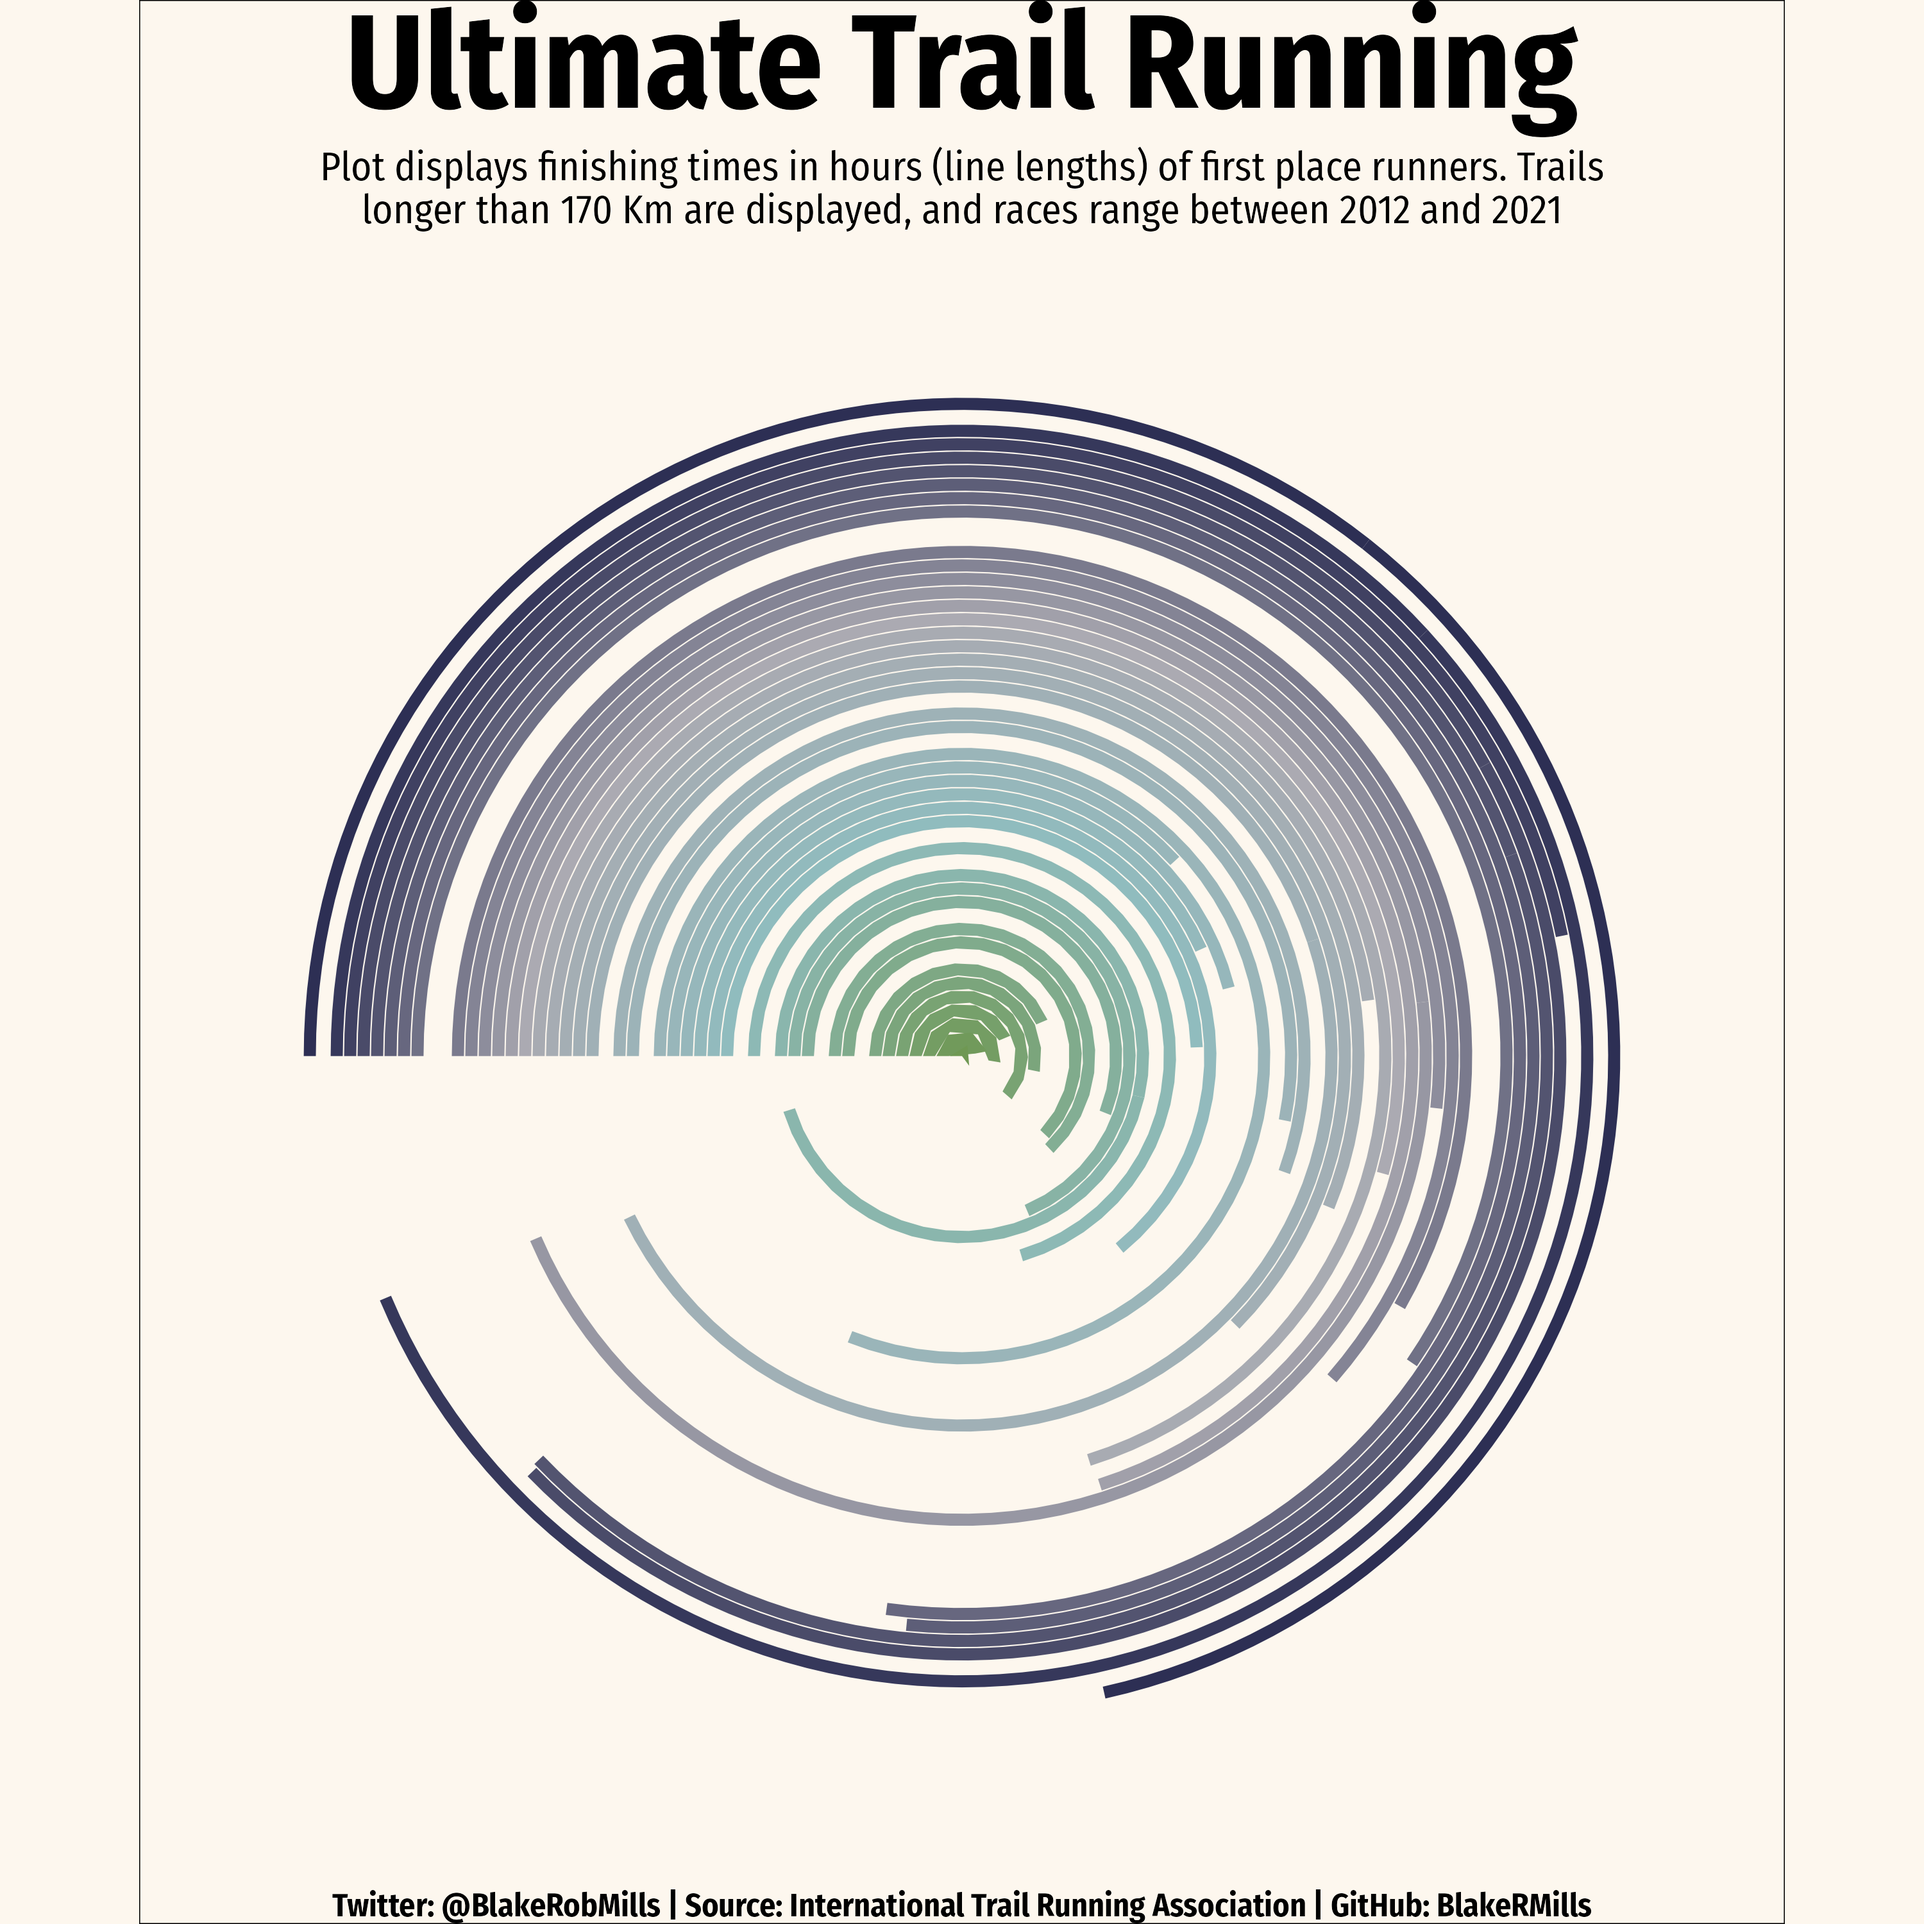
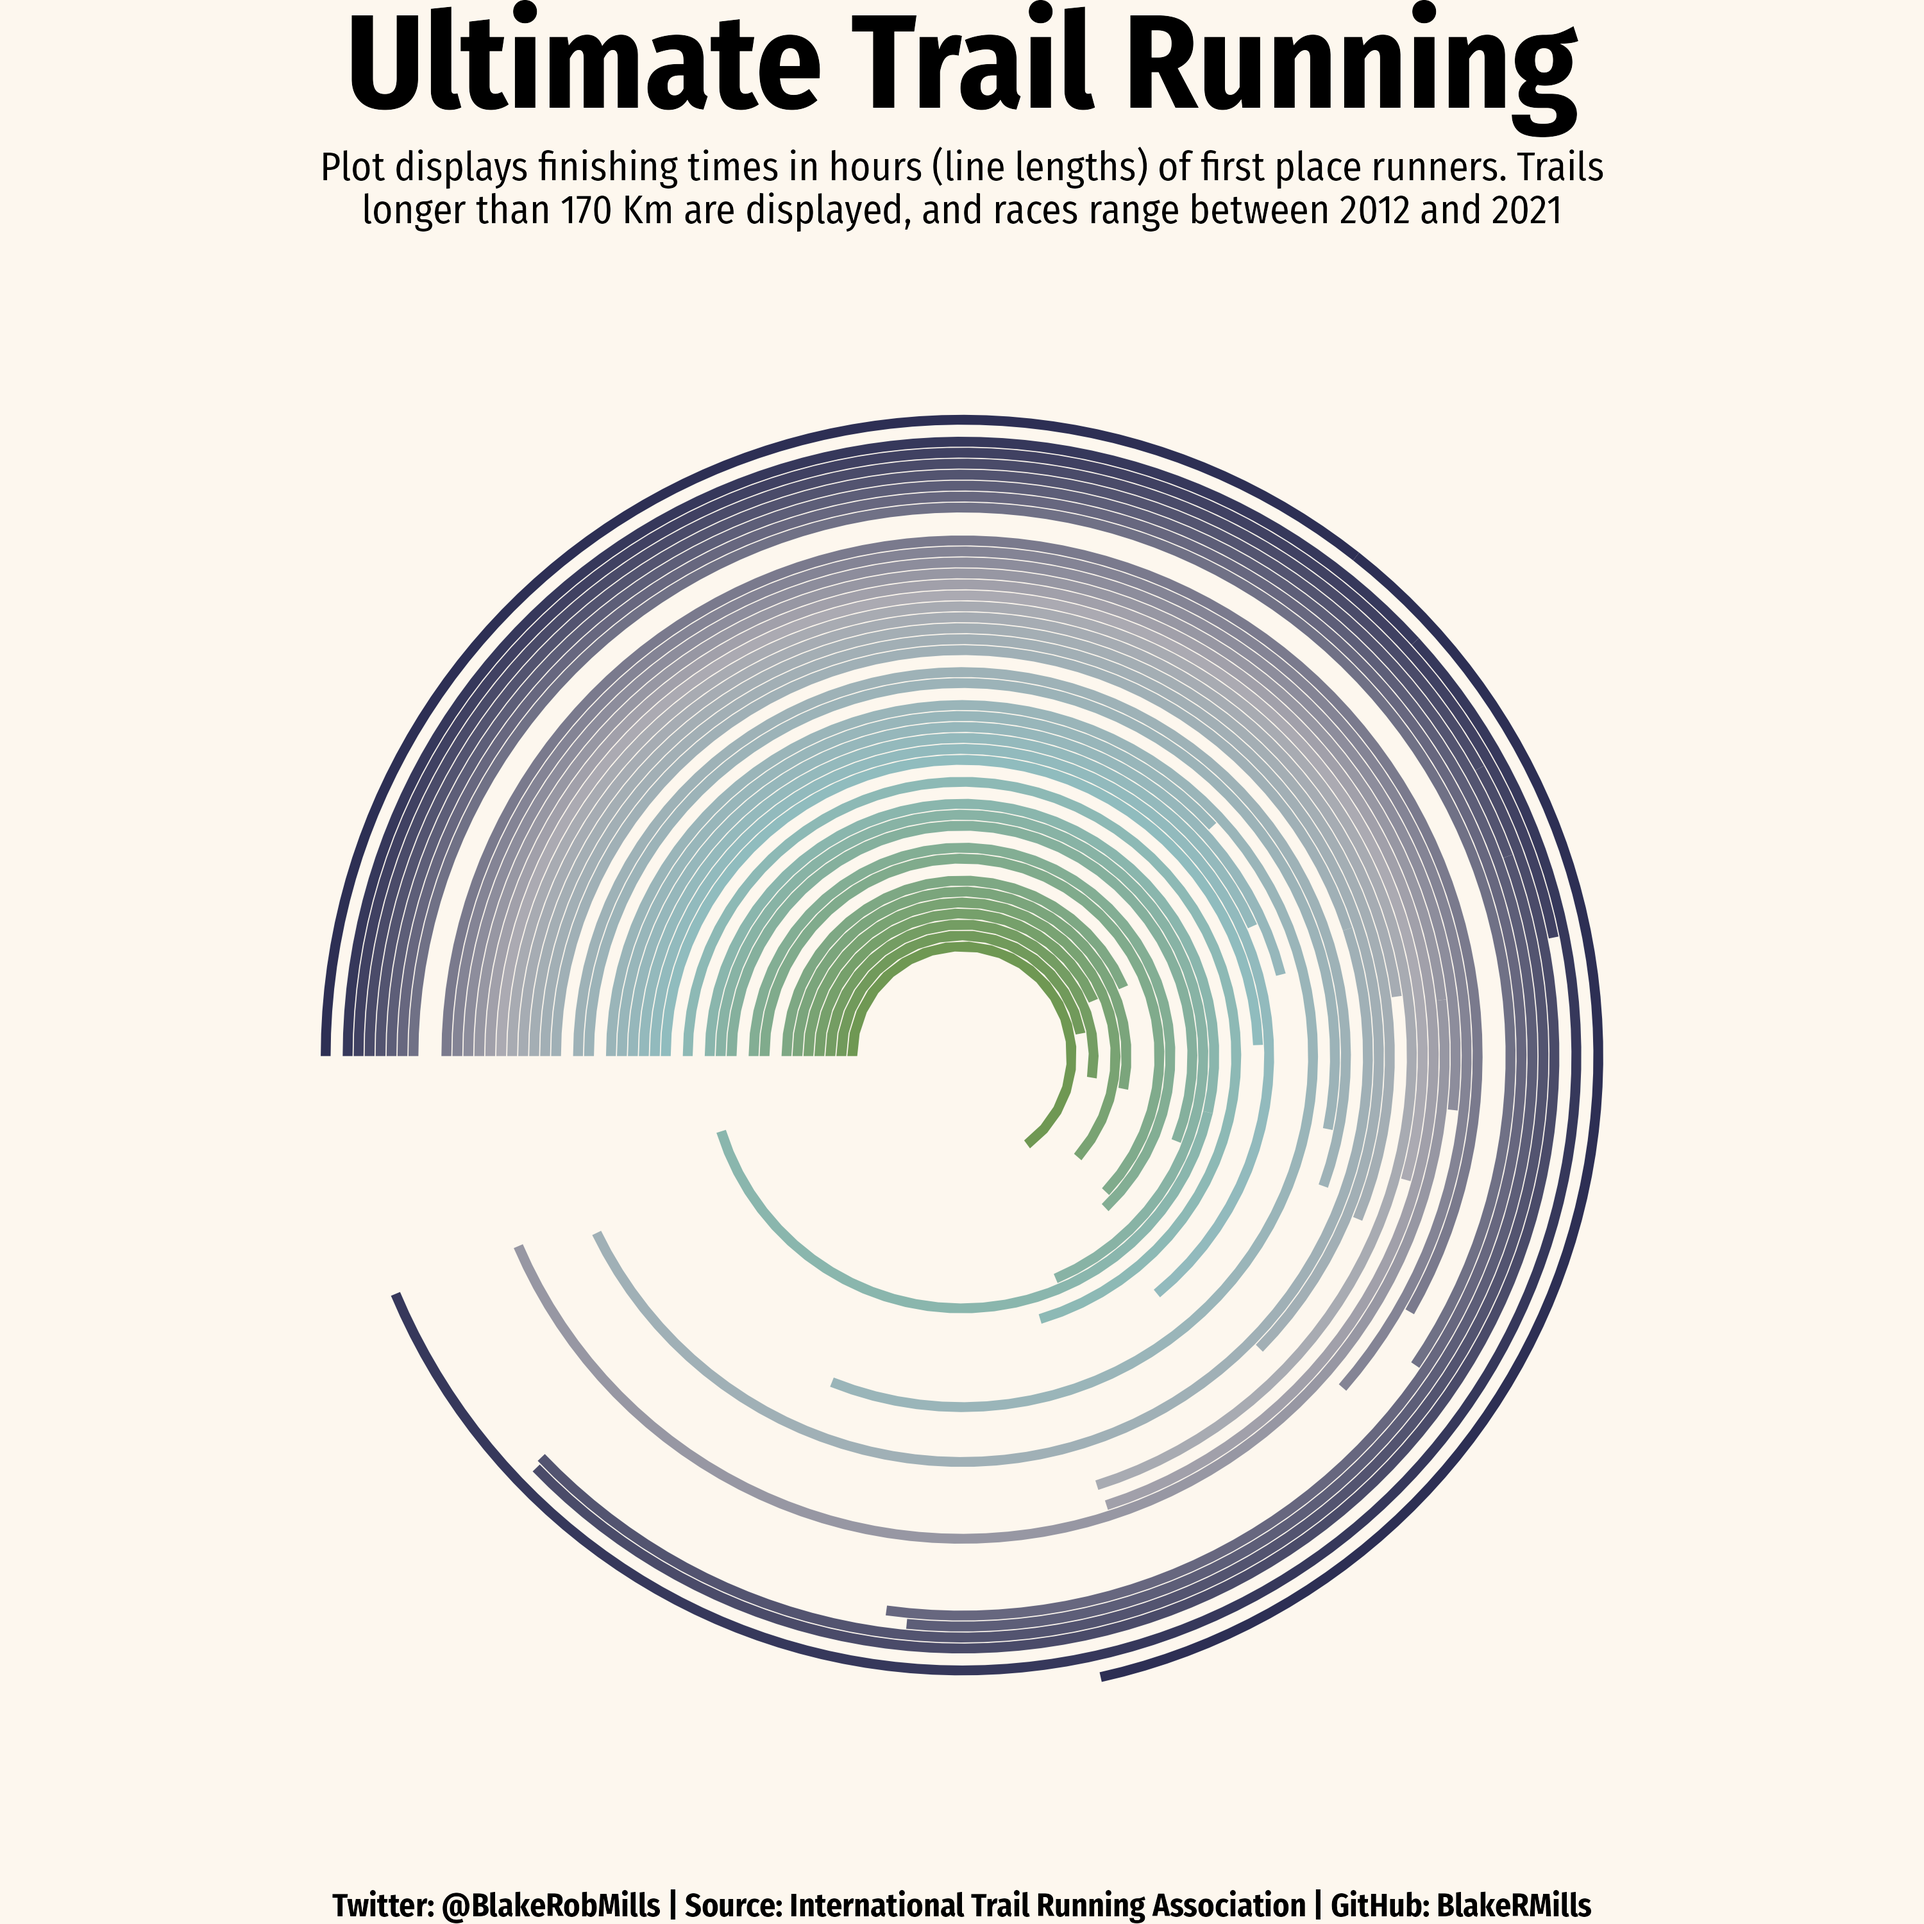
update

Changed region(s): [[0.155, 0.186, 0.868, 0.899], [0.186, 0.651, 0.248, 0.744]]

diff --git a/vizbuzz06/readme.md b/vizbuzz06/readme.md
@@ -52,7 +52,7 @@ df_tr |>
         fill = as.factor(distance)
         )
   ) +
-  geom_col(color = NA, linewidth = 10) + 
+  geom_col(color = NA) + 
   coord_polar(theta="y", start = 4.71239) + 
   theme_void(base_family = "Fira Sans Condensed") + 
   theme(
@@ -61,12 +61,12 @@ df_tr |>
     plot.title = element_text(hjust = 0.5,face = "bold",size = 50),
     plot.subtitle = element_text(hjust = 0.5, size = 15),
     plot.caption = element_text(hjust = 0.5,face = "bold", size = 12),
-    plot.caption.position = "plot",
-    plot.background = element_rect(fill = "#FDF7EE", colour = NULL,linewidth = NULL)
+    plot.caption.position = "plot"
     ) + 
   ylim(0, max(df_tr$time_in_seconds) + 12000) + 
-  scale_x_reverse() +
+  scale_x_reverse(limits = c(176,170)) +
   scale_fill_discrete(type = colours) + 
+  scale_color_discrete(type = colours) + 
   labs(
     title = title,
     subtitle = subtitle,
